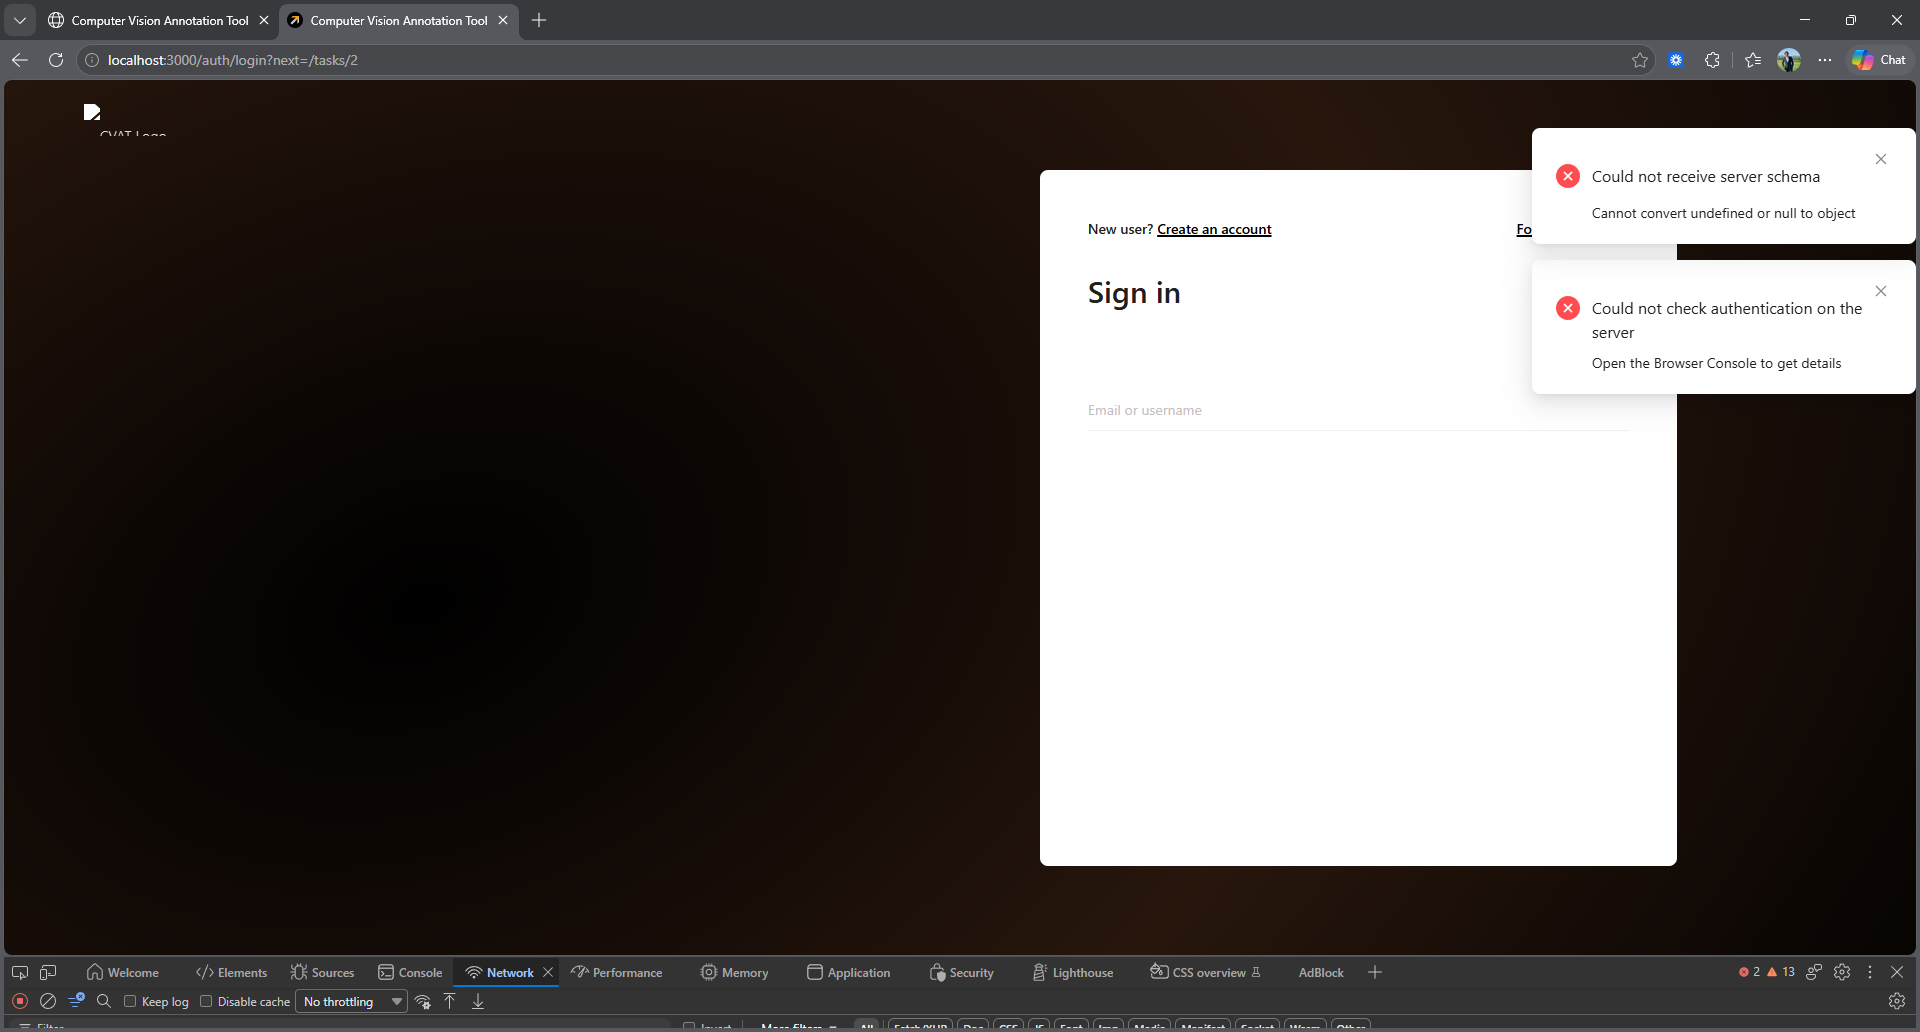
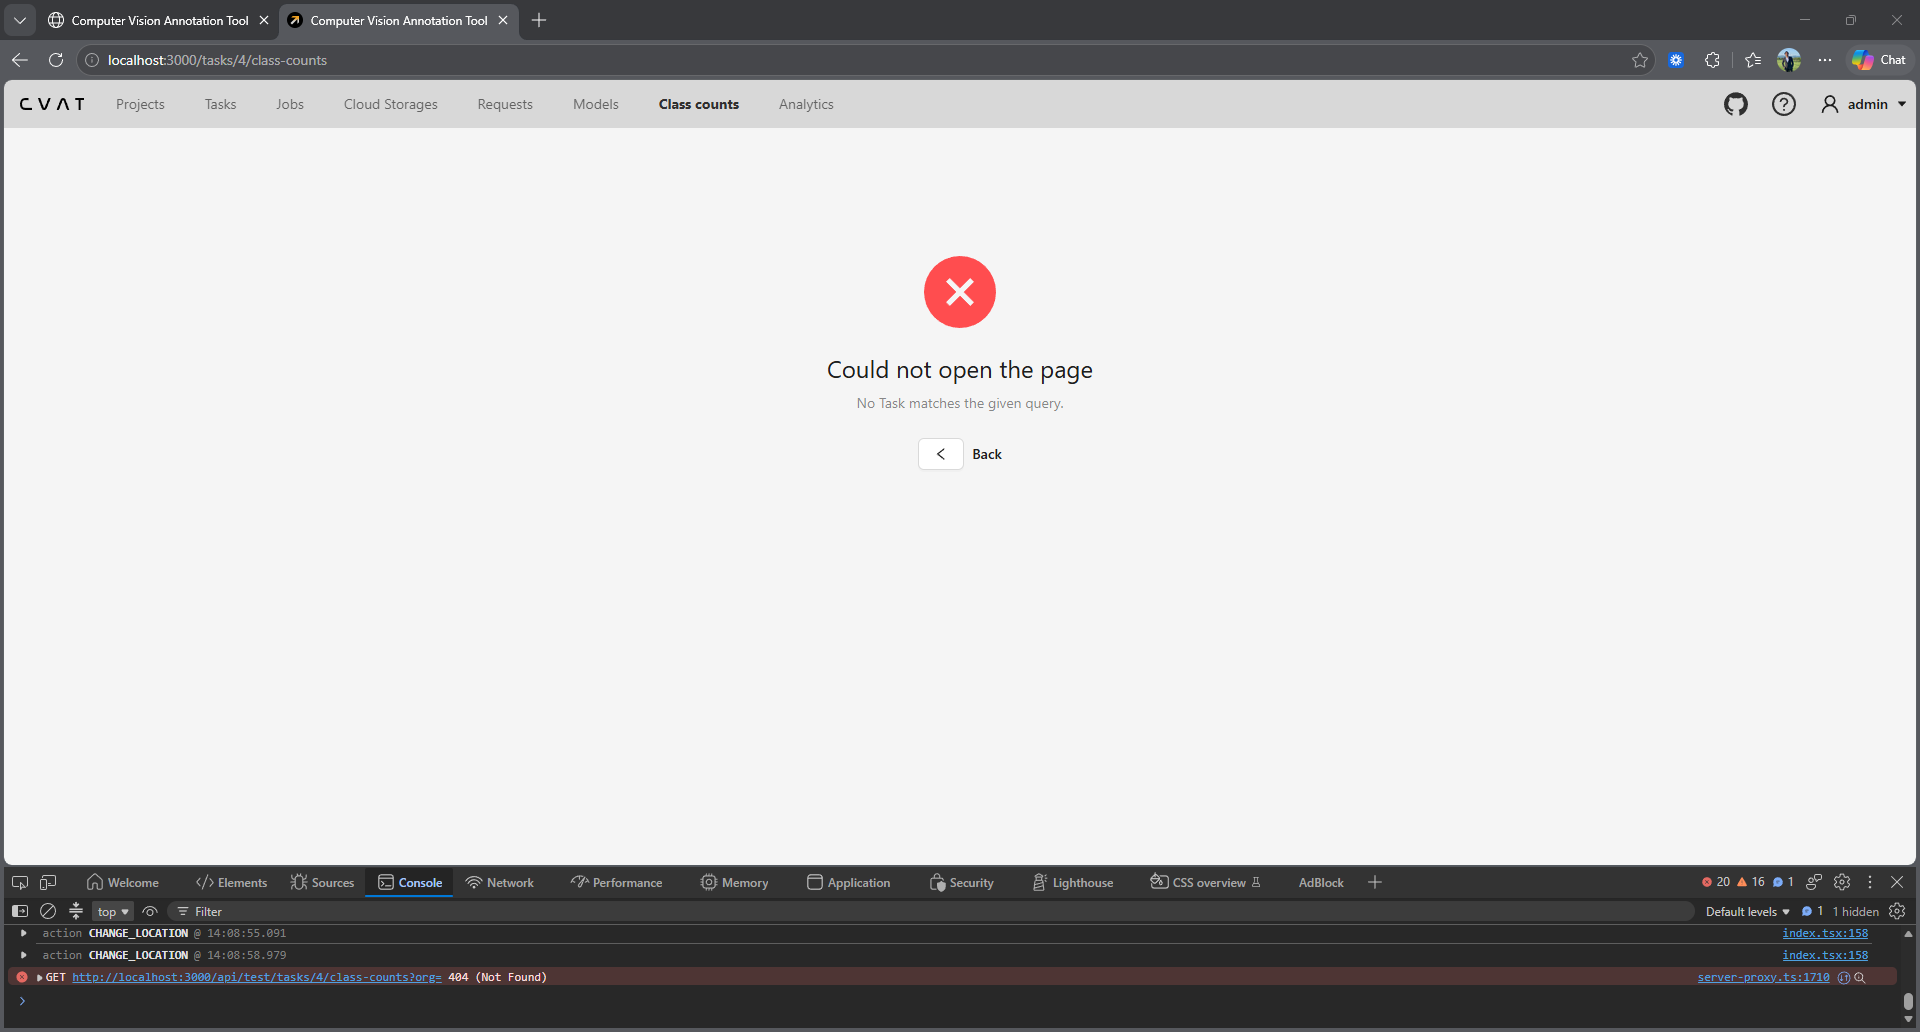
Record group_by evidence and MO-1 timing results Also added a group_by filter in the UI for easier analytics

diff --git a/cvat-ui/src/components/class-counts-page/class-counts-page.tsx b/cvat-ui/src/components/class-counts-page/class-counts-page.tsx
@@ -4,13 +4,18 @@
 
 import './styles.scss';
 
-import React, { useEffect, useReducer } from 'react';
+import React, {
+    useEffect, useMemo, useReducer, useState,
+} from 'react';
 import { useHistory, useParams } from 'react-router';
 import Empty from 'antd/lib/empty';
 import Input from 'antd/lib/input';
 import Result from 'antd/lib/result';
+import Select from 'antd/lib/select';
 import Title from 'antd/lib/typography/Title';
-import { Chart, registerables } from 'chart.js';
+import {
+    Chart, ChartData, registerables,
+} from 'chart.js';
 import { Bar } from 'react-chartjs-2';
 
 import { getCore } from 'cvat-core-wrapper';
@@ -20,6 +25,12 @@ import { ActionUnion, createAction } from 'utils/redux';
 
 // chart.js does not register anything by default
 Chart.register(...registerables);
+
+const SHAPE_TYPE_COLORS = [
+    '#1890ff', '#52c41a', '#faad14', '#f5222d', '#722ed1', '#13c2c2', '#eb2f96', '#fa8c16',
+];
+
+type GroupBy = 'none' | 'shape_type';
 
 interface ClassCountRow {
     label: string;
@@ -67,28 +78,69 @@ const reducer = (state: State, action: ActionUnion<typeof reducerActions>): Stat
 
 const core = getCore();
 
-function ClassCountsChart({ counts }: { counts: ClassCountRow[] }): JSX.Element {
+function buildChartData(counts: ClassCountRow[], grouped: boolean): ChartData<'bar', number[], string> {
+    if (!grouped) {
+        return {
+            labels: counts.map((row) => row.label),
+            datasets: [{
+                label: 'Shapes',
+                data: counts.map((row) => row.count),
+                backgroundColor: SHAPE_TYPE_COLORS[0],
+            }],
+        };
+    }
+
+    const totals = new Map<string, number>();
+    const countsByLabel = new Map<string, Map<string, number>>();
+    for (const row of counts) {
+        const shapeType = row.type ?? 'unknown';
+        if (!countsByLabel.has(row.label)) {
+            countsByLabel.set(row.label, new Map());
+        }
+        countsByLabel.get(row.label)?.set(shapeType, row.count);
+        totals.set(row.label, (totals.get(row.label) ?? 0) + row.count);
+    }
+
+    // keep the labels ordered by their total count, like the plain view does
+    const labels = [...totals.entries()]
+        .sort((first, second) => second[1] - first[1])
+        .map(([label]) => label);
+    const shapeTypes = [...new Set(counts.map((row) => row.type ?? 'unknown'))];
+
+    return {
+        labels,
+        datasets: shapeTypes.map((shapeType, index) => ({
+            label: shapeType,
+            data: labels.map((label) => countsByLabel.get(label)?.get(shapeType) ?? 0),
+            backgroundColor: SHAPE_TYPE_COLORS[index % SHAPE_TYPE_COLORS.length],
+        })),
+    };
+}
+
+interface ClassCountsChartProps {
+    counts: ClassCountRow[];
+    grouped: boolean;
+}
+
+function ClassCountsChart({ counts, grouped }: ClassCountsChartProps): JSX.Element {
+    const data = useMemo(() => buildChartData(counts, grouped), [counts, grouped]);
+    const barCount = data.labels?.length ?? 0;
+
     return (
         <div
             className='cvat-class-counts-chart-wrapper'
-            style={{ height: Math.max(counts.length * 28, 400) }}
+            style={{ height: Math.max(barCount * 28, 400) }}
         >
             <Bar
-                data={{
-                    labels: counts.map((row) => row.label),
-                    datasets: [{
-                        label: 'Shapes',
-                        data: counts.map((row) => row.count),
-                        backgroundColor: 'rgba(24, 144, 255, 0.7)',
-                    }],
-                }}
+                data={data}
                 options={{
                     indexAxis: 'y',
                     responsive: true,
                     maintainAspectRatio: false,
                     plugins: {
-                        legend: { display: false },
+                        legend: grouped ? { position: 'bottom' } : { display: false },
                     },
+                    scales: grouped ? { x: { stacked: true } } : undefined,
                 }}
             />
         </div>
@@ -98,6 +150,7 @@ function ClassCountsChart({ counts }: { counts: ClassCountRow[] }): JSX.Element 
 export default function ClassCountsPage(): JSX.Element {
     const { tid } = useParams<{ tid: string }>();
     const history = useHistory();
+    const [groupBy, setGroupBy] = useState<GroupBy>('none');
     const [state, dispatch] = useReducer(
         reducer, { fetching: false, counts: [], error: null },
     );
@@ -109,14 +162,16 @@ export default function ClassCountsPage(): JSX.Element {
         }
 
         dispatch(reducerActions.fetch());
-        core.test.getTaskClassCounts(taskId).then((counts) => {
-            dispatch(reducerActions.fetchSuccess(counts));
-        }).catch((error: Error) => {
-            dispatch(reducerActions.fetchFailed(error));
-        });
+        core.test.getTaskClassCounts(taskId, groupBy === 'shape_type' ? groupBy : undefined)
+            .then((counts) => {
+                dispatch(reducerActions.fetchSuccess(counts));
+            })
+            .catch((error: Error) => {
+                dispatch(reducerActions.fetchFailed(error));
+            });
 
         return undefined;
-    }, [taskId]);
+    }, [taskId, groupBy]);
 
     const onSearch = (value: string): void => {
         const parsedId = Number(value);
@@ -175,9 +230,18 @@ export default function ClassCountsPage(): JSX.Element {
                 <Title level={4} className='cvat-text-color'>
                     {`Annotation class counts for task ${taskId}`}
                 </Title>
+                <Select<GroupBy>
+                    className='cvat-class-counts-group-by-select'
+                    value={groupBy}
+                    onChange={(value: GroupBy) => setGroupBy(value)}
+                    options={[
+                        { value: 'none', label: 'Total per class' },
+                        { value: 'shape_type', label: 'Break down by shape type' },
+                    ]}
+                />
             </div>
             {state.counts.length ? (
-                <ClassCountsChart counts={state.counts} />
+                <ClassCountsChart counts={state.counts} grouped={groupBy === 'shape_type'} />
             ) : (
                 <Empty description='No annotations in this task' />
             )}

diff --git a/cvat-ui/src/components/class-counts-page/styles.scss b/cvat-ui/src/components/class-counts-page/styles.scss
@@ -10,6 +10,13 @@
 
     .cvat-class-counts-page-header {
         @include cvat-management-page-header;
+        display: flex;
+        align-items: center;
+        justify-content: space-between;
+    }
+
+    .cvat-class-counts-group-by-select {
+        min-width: $grid-unit-size * 30;
     }
 
     .cvat-class-counts-task-picker {

diff --git a/docs/OBJECTIVES.md b/docs/OBJECTIVES.md
@@ -34,20 +34,20 @@
 
 | Run | Time (s) |
 |-----|----------|
-| 1 | `[FILL]` |
-| 2 | `[FILL]` |
-| 3 | `[FILL]` |
-| 4 | `[FILL]` |
-| 5 | `[FILL]` |
+| 1 | 0.299327 |
+| 2 | 0.270090 |
+| 3 | 0.284425 |
+| 4 | 0.288551 |
+| 5 | 0.264006 |
 
-- Median: `[FILL]`
-- Min / Max: `[FILL]` / `[FILL]`
-- Target met: `[FILL: yes / no]`
-- If missed: `[FILL: what I found, whether I investigated, and what I would change]`
+- Median: **0.284425 s (284.4 ms)**
+- Min / Max: **0.264006 s (264.0 ms)** / **0.299327 s (299.3 ms)**
+- Target met: **no** — median 284.4 ms against the 250 ms target (missed by 34.4 ms); reported as missed per the rules above
+- If missed: I investigated before writing this. Raw output including the investigation is in `docs/evidence/mo1-raw.txt`. Three findings: (1) the database aggregate itself costs 40.5 ms (`EXPLAIN ANALYZE`, index scan over all 41,866 shape rows, 80 groups); (2) an existing CVAT endpoint guarded by the same permission layer, `GET /api/tasks/2`, costs the same as mine (273–430 ms over three runs); (3) an endpoint with authentication but no OPA permission check, `GET /api/server/about/`, costs 6–14 ms. So the ~284 ms is dominated by CVAT's per-request OPA authorization round trip, which every task endpoint pays, not by the class-count query. What I would change if this were a product endpoint: cache OPA decisions for repeated (user, resource, scope) triples, or evaluate the policy in-process — both are platform-level changes outside this task's scope. What I would NOT do is optimize the query: 40 ms of the 284 ms is the count, and halving it would not move the median under the target.
 
 ### Honest reading of the result
 
-`[FILL: one or two sentences. For example, whether the time is dominated by the database query or by the authentication layer, and how I know. Do not guess: if I did not check, say so.]`
+The time is dominated by the authentication/authorization layer, not by the database query. I know because I measured all three parts separately (commands and outputs in `docs/evidence/mo1-raw.txt`): the aggregate runs in 40.5 ms in Postgres (`EXPLAIN ANALYZE`), the whole request takes ~284 ms, an existing endpoint behind the same OPA permission check (`GET /api/tasks/2`) takes the same ~273–430 ms, and an endpoint with authentication but no permission check (`GET /api/server/about/`) takes 6–14 ms. The ~240 ms gap between the last two is the OPA round trip that CVAT's `PolicyEnforcer` makes for every task-scoped request; my endpoint pays it like every other one.
 
 ## Rules I follow for every number in this repository
 
